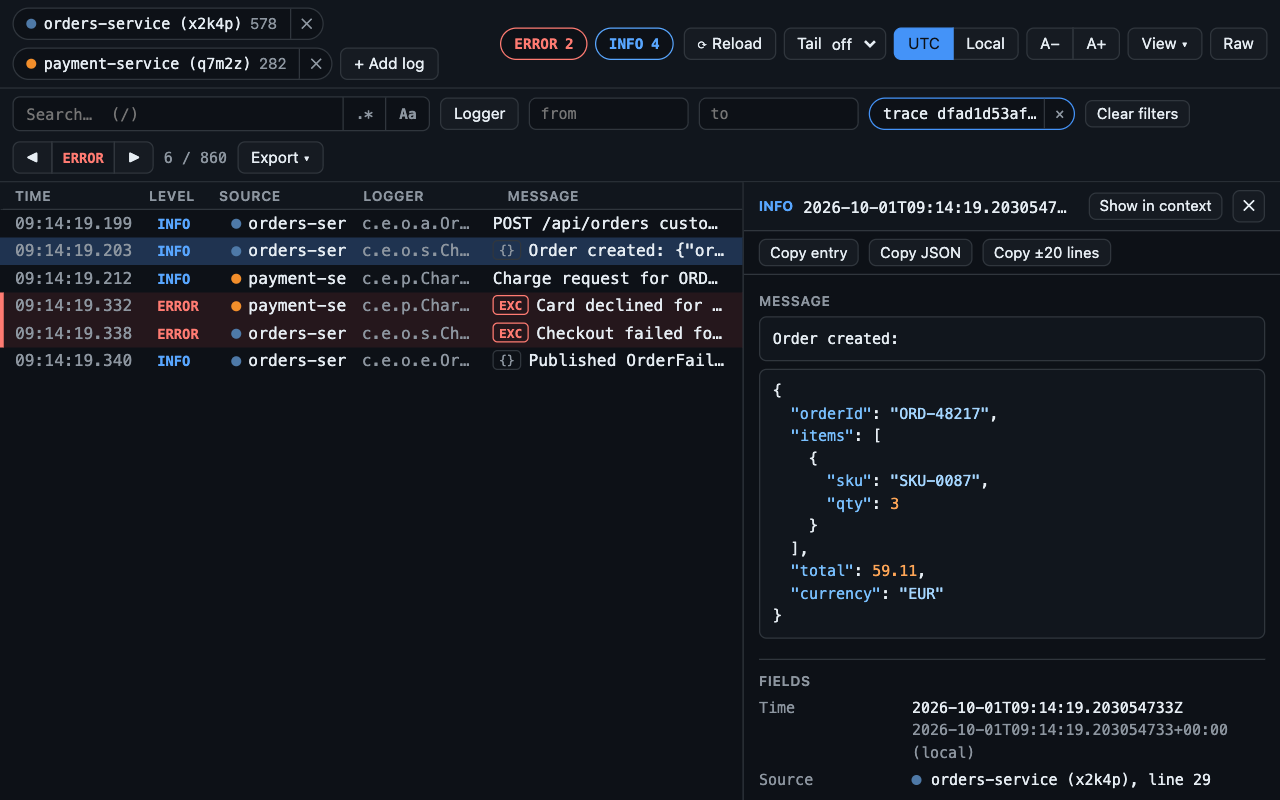
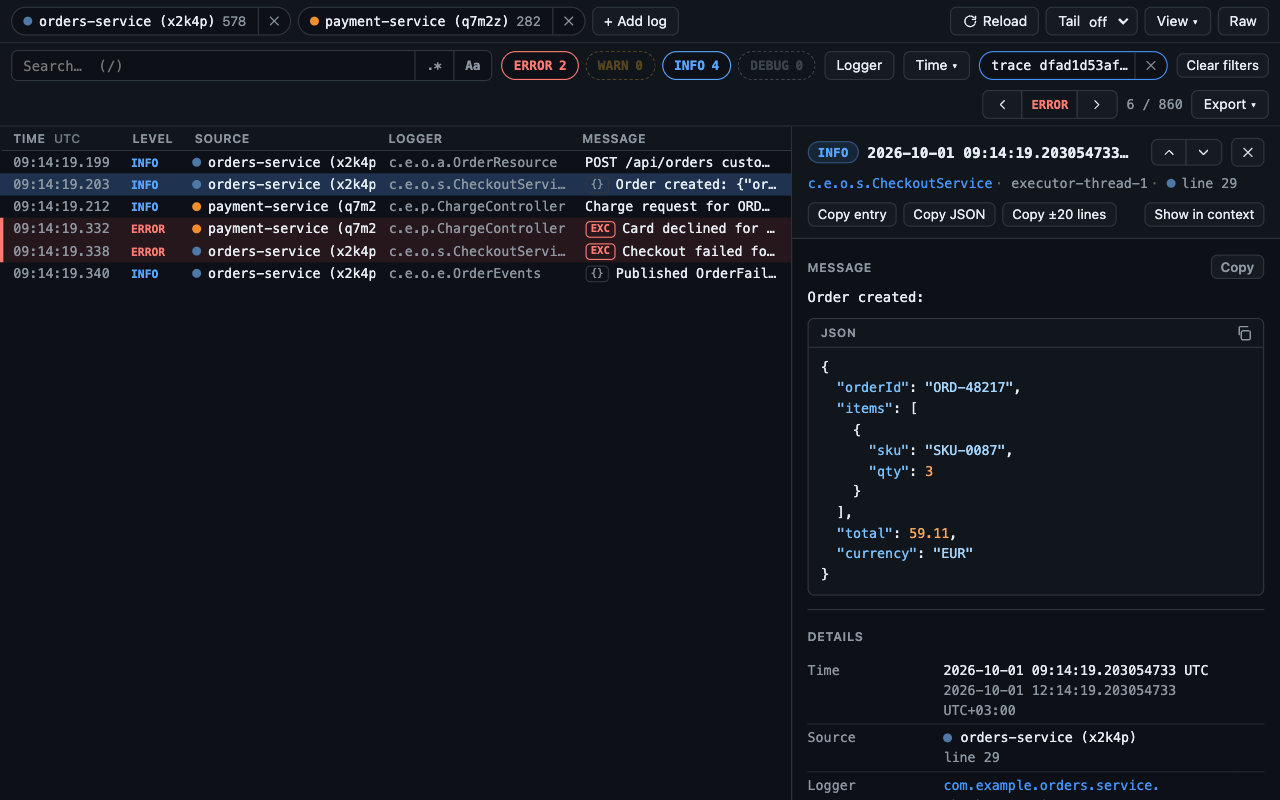
New store screenshots, and a tidier toolbar in narrow windows
- The five Chrome Web Store screenshots show the current UI. They are now
  reproducible: test/e2e/store-shots.e2e.ts renders them from the
  fictional demo logs (1152×720 at 10/9, 1280×800 files).
- When the filter bar doesn't fit, error jump, count and Export move to the
  next line together, on the right, instead of one by one.

diff --git a/test/e2e/store-shots.e2e.ts b/test/e2e/store-shots.e2e.ts
@@ -1,0 +1,111 @@
+// Chrome Web Store screenshots, from the fictional demo logs of scripts/make-demo.mjs. Not part of the normal run:
+//   npm run build && LOGPANE_STORE_SHOTS=1 LOGPANE_SKIP_BUILD=1 npx vitest run --config vitest.e2e.config.ts test/e2e/store-shots.e2e.ts
+// Rendered at 10/9 from a 1152×720 layout (1280×800 files): room for the whole toolbar, and text that stays
+// readable when the store shows them at 640×400.
+import { execFileSync } from 'node:child_process';
+import { mkdtempSync, readdirSync, readFileSync, rmSync } from 'node:fs';
+import { tmpdir } from 'node:os';
+import { join } from 'node:path';
+import { afterAll, beforeAll, describe, it } from 'vitest';
+import type { Page } from 'playwright-core';
+import { ROOT, clickRow, launch, search, serve, waitReady, type DevServer, type Harness } from './harness';
+
+const OUT = process.env.LOGPANE_STORE_SHOTS_DIR ?? join(ROOT, 'store');
+const ORDERS = 'orders-service-6f7c9d8b4-x2k4p';
+const PAYMENTS = 'payment-service-5d8b7c6f9-q7m2z';
+
+let h: Harness;
+let srv: DevServer;
+let demo: string;
+
+beforeAll(async () => {
+  demo = mkdtempSync(join(tmpdir(), 'logpane-demo-'));
+  execFileSync(process.execPath, [join(ROOT, 'scripts', 'make-demo.mjs'), demo], { stdio: 'ignore' });
+  const logs = Object.fromEntries(readdirSync(demo).map((f) => [f.replace(/\.log$/, ''), readFileSync(join(demo, f), 'utf8')]));
+  h = await launch({ deviceScaleFactor: 1280 / 1152 });
+  srv = await serve({ logs });
+  // the suggestion banner is for real use, not for the store
+  await h.sw.evaluate((origin) => chrome.storage.local.set({ autoPromptDismissed: [origin] }), `http://localhost:${srv.port}`);
+});
+afterAll(async () => {
+  await h?.close();
+  await srv?.close();
+  rmSync(demo, { recursive: true, force: true });
+});
+
+async function open(pod: string, container: string, dark = false): Promise<Page> {
+  const page = await h.newPage({ dark });
+  await page.setViewportSize({ width: 1152, height: 720 });
+  await page.goto(srv.url(pod, container));
+  await h.inject(page);
+  await waitReady(page);
+  return page;
+}
+
+async function addLog(page: Page, pod: string, container: string): Promise<void> {
+  await page.click('button[title^="Add another log"]');
+  await page.fill('.lv-modal textarea >> nth=0', srv.url(pod, container));
+  await page.click('.lv-modal button:text-is("Add")');
+  await page.waitForSelector('.lv-src-chip >> nth=1');
+}
+
+async function shot(page: Page, name: string): Promise<void> {
+  await page.evaluate(() => (document.activeElement as HTMLElement | null)?.blur());
+  await page.mouse.move(1, 1);
+  await page.waitForTimeout(250);
+  await page.screenshot({ path: join(OUT, `${name}.png`) });
+}
+
+describe.skipIf(!process.env.LOGPANE_STORE_SHOTS)('store screenshots', () => {
+  it('1: an error with a readable stack trace', async () => {
+    const page = await open(ORDERS, 'orders-service');
+    await search(page, 'ORD-48263');
+    await clickRow(page, 'Checkout failed');
+    await page.click('button:text("Show in context")');
+    await page.waitForTimeout(1600); // the row's highlight fades
+    await shot(page, 'screenshot-1-stack-trace');
+    await page.close();
+  });
+
+  it('2: one trace across two services, with its JSON payload (dark)', async () => {
+    const page = await open(ORDERS, 'orders-service', true);
+    await addLog(page, PAYMENTS, 'payment-service');
+    await search(page, 'ORD-48217');
+    await clickRow(page, 'Order created');
+    await page.click('.lv-frows button.lv-link[title="Show all entries of this trace"]');
+    await search(page, ''); // the entry stays selected, the list now shows its whole trace
+    await page.$eval('.lv-details-body', (el) => (el.scrollTop = 0)); // back to the message and its JSON
+    await shot(page, 'screenshot-2-trace-across-services');
+    await page.close();
+  });
+
+  it('3: search and level filters across two logs', async () => {
+    const page = await open(ORDERS, 'orders-service');
+    await addLog(page, PAYMENTS, 'payment-service');
+    await search(page, 'ORD -health');
+    await page.click('.lv-level-chip.lv-lvl-ERROR');
+    await page.click('.lv-level-chip.lv-lvl-WARN', { modifiers: ['ControlOrMeta'] });
+    await page.evaluate(() => (document.activeElement as HTMLElement | null)?.blur());
+    await page.keyboard.press('g'); // from the first match
+    await shot(page, 'screenshot-3-search-filter');
+    await page.close();
+  });
+
+  it('4: adding another log', async () => {
+    const page = await open(ORDERS, 'orders-service');
+    await page.click('button[title^="Add another log"]');
+    // a console pod-log page URL (fictional, example.com): the dialog converts these to the Raw log
+    await page.fill('.lv-modal textarea >> nth=0', `https://console-openshift-console.apps.example.com/k8s/ns/shop/pods/${PAYMENTS}/logs`);
+    await shot(page, 'screenshot-4-add-log');
+    await page.close();
+  });
+
+  it('5: the local file viewer', async () => {
+    const page = await h.newPage();
+    await page.setViewportSize({ width: 1152, height: 720 });
+    await page.goto(`chrome-extension://${h.extId}/viewer.html`);
+    await page.waitForSelector('.lv-empty');
+    await shot(page, 'screenshot-5-file-viewer');
+    await page.close();
+  });
+});

diff --git a/src/ui/Toolbar.tsx b/src/ui/Toolbar.tsx
@@ -409,29 +409,30 @@ export function FilterBar(props: {
         </button>
       )}
 
-      <span class="lv-grow" />
-
-      <div class="lv-seg" role="group" aria-label="Jump">
-        <button type="button" title="Previous error (N)" aria-label="Previous error" onClick={() => props.onJump('error', -1)}>
-          <Icon name="left" />
-        </button>
-        <span class="lv-seg-label lv-lvl-ERROR">ERROR</span>
-        <button type="button" title="Next error (n)" aria-label="Next error" onClick={() => props.onJump('error', 1)}>
-          <Icon name="right" />
-        </button>
+      {/* one group: in a narrow window it moves to the next line as a whole, still on the right */}
+      <div class="lv-filter-end">
+        <div class="lv-seg" role="group" aria-label="Jump">
+          <button type="button" title="Previous error (N)" aria-label="Previous error" onClick={() => props.onJump('error', -1)}>
+            <Icon name="left" />
+          </button>
+          <span class="lv-seg-label lv-lvl-ERROR">ERROR</span>
+          <button type="button" title="Next error (n)" aria-label="Next error" onClick={() => props.onJump('error', 1)}>
+            <Icon name="right" />
+          </button>
+        </div>
+        <span class="lv-count" title="Entries shown / total">
+          {props.shown.toLocaleString()} / {props.total.toLocaleString()}
+        </span>
+        <Popover label="Export ▾" align="right">
+          {(close) => (
+            <div class="lv-menu">
+              <button type="button" class="lv-btn" onClick={() => { props.onCopyFiltered('text'); close(); }}>Copy shown as text</button>
+              <button type="button" class="lv-btn" onClick={() => { props.onCopyFiltered('ndjson'); close(); }}>Copy shown as raw JSON lines</button>
+              <button type="button" class="lv-btn" onClick={() => { props.onDownload(); close(); }}>Download shown (.log)</button>
+            </div>
+          )}
+        </Popover>
       </div>
-      <span class="lv-count" title="Entries shown / total">
-        {props.shown.toLocaleString()} / {props.total.toLocaleString()}
-      </span>
-      <Popover label="Export ▾" align="right">
-        {(close) => (
-          <div class="lv-menu">
-            <button type="button" class="lv-btn" onClick={() => { props.onCopyFiltered('text'); close(); }}>Copy shown as text</button>
-            <button type="button" class="lv-btn" onClick={() => { props.onCopyFiltered('ndjson'); close(); }}>Copy shown as raw JSON lines</button>
-            <button type="button" class="lv-btn" onClick={() => { props.onDownload(); close(); }}>Download shown (.log)</button>
-          </div>
-        )}
-      </Popover>
     </div>
   );
 }

diff --git a/test/e2e/harness.ts b/test/e2e/harness.ts
@@ -55,6 +55,8 @@ export interface LaunchOptions {
    */
   hostPermissions?: string[];
   headless?: boolean;
+  /** Pixel ratio of every page (store screenshots are taken at 1.25). */
+  deviceScaleFactor?: number;
 }
 
 /** Keyboard shortcut of the toolbar button in the test copy (grants activeTab like a click). */
@@ -73,6 +75,7 @@ export async function launch(options: LaunchOptions = {}): Promise<Harness> {
     executablePath: findChrome(),
     headless: options.headless ?? true,
     viewport: { width: 1400, height: 900 },
+    deviceScaleFactor: options.deviceScaleFactor,
     locale: 'en-US',
     timezoneId: 'Europe/Vilnius',
     args: [`--disable-extensions-except=${ext}`, `--load-extension=${ext}`],

diff --git a/src/ui/viewer.css b/src/ui/viewer.css
@@ -463,10 +463,16 @@ kbd {
   border-style: dashed;
 }
 
+.lv-filter-end {
+  display: flex;
+  align-items: center;
+  gap: 8px;
+  margin-left: auto;
+}
 .lv-search {
   display: flex;
   align-items: center;
-  flex: 1 1 280px;
+  flex: 1 1 220px;
   max-width: 560px;
   height: 28px;
   border: 1px solid var(--lv-border);

diff --git a/store/listing.md b/store/listing.md
@@ -77,7 +77,11 @@ Supported formats, for reference:
 | `promo-small-440x280.png` | Small promo tile (required for good placement) | 440×280 |
 | `promo-marquee-1400x560.png` | Marquee promo tile (optional, needed for marquee features) | 1400×560 |
 
-Screenshots are rendered at 1.25× from a 1024×640 layout, so text stays readable when the store shows them at 640×400.
+Screenshots are rendered at 10/9 from a 1152×720 layout, so text stays readable when the store shows them at 640×400. To make them again after UI changes:
+
+```sh
+npm run build && LOGPANE_STORE_SHOTS=1 LOGPANE_SKIP_BUILD=1 npx vitest run --config vitest.e2e.config.ts test/e2e/store-shots.e2e.ts
+```
 
 ## Privacy practices tab
 
